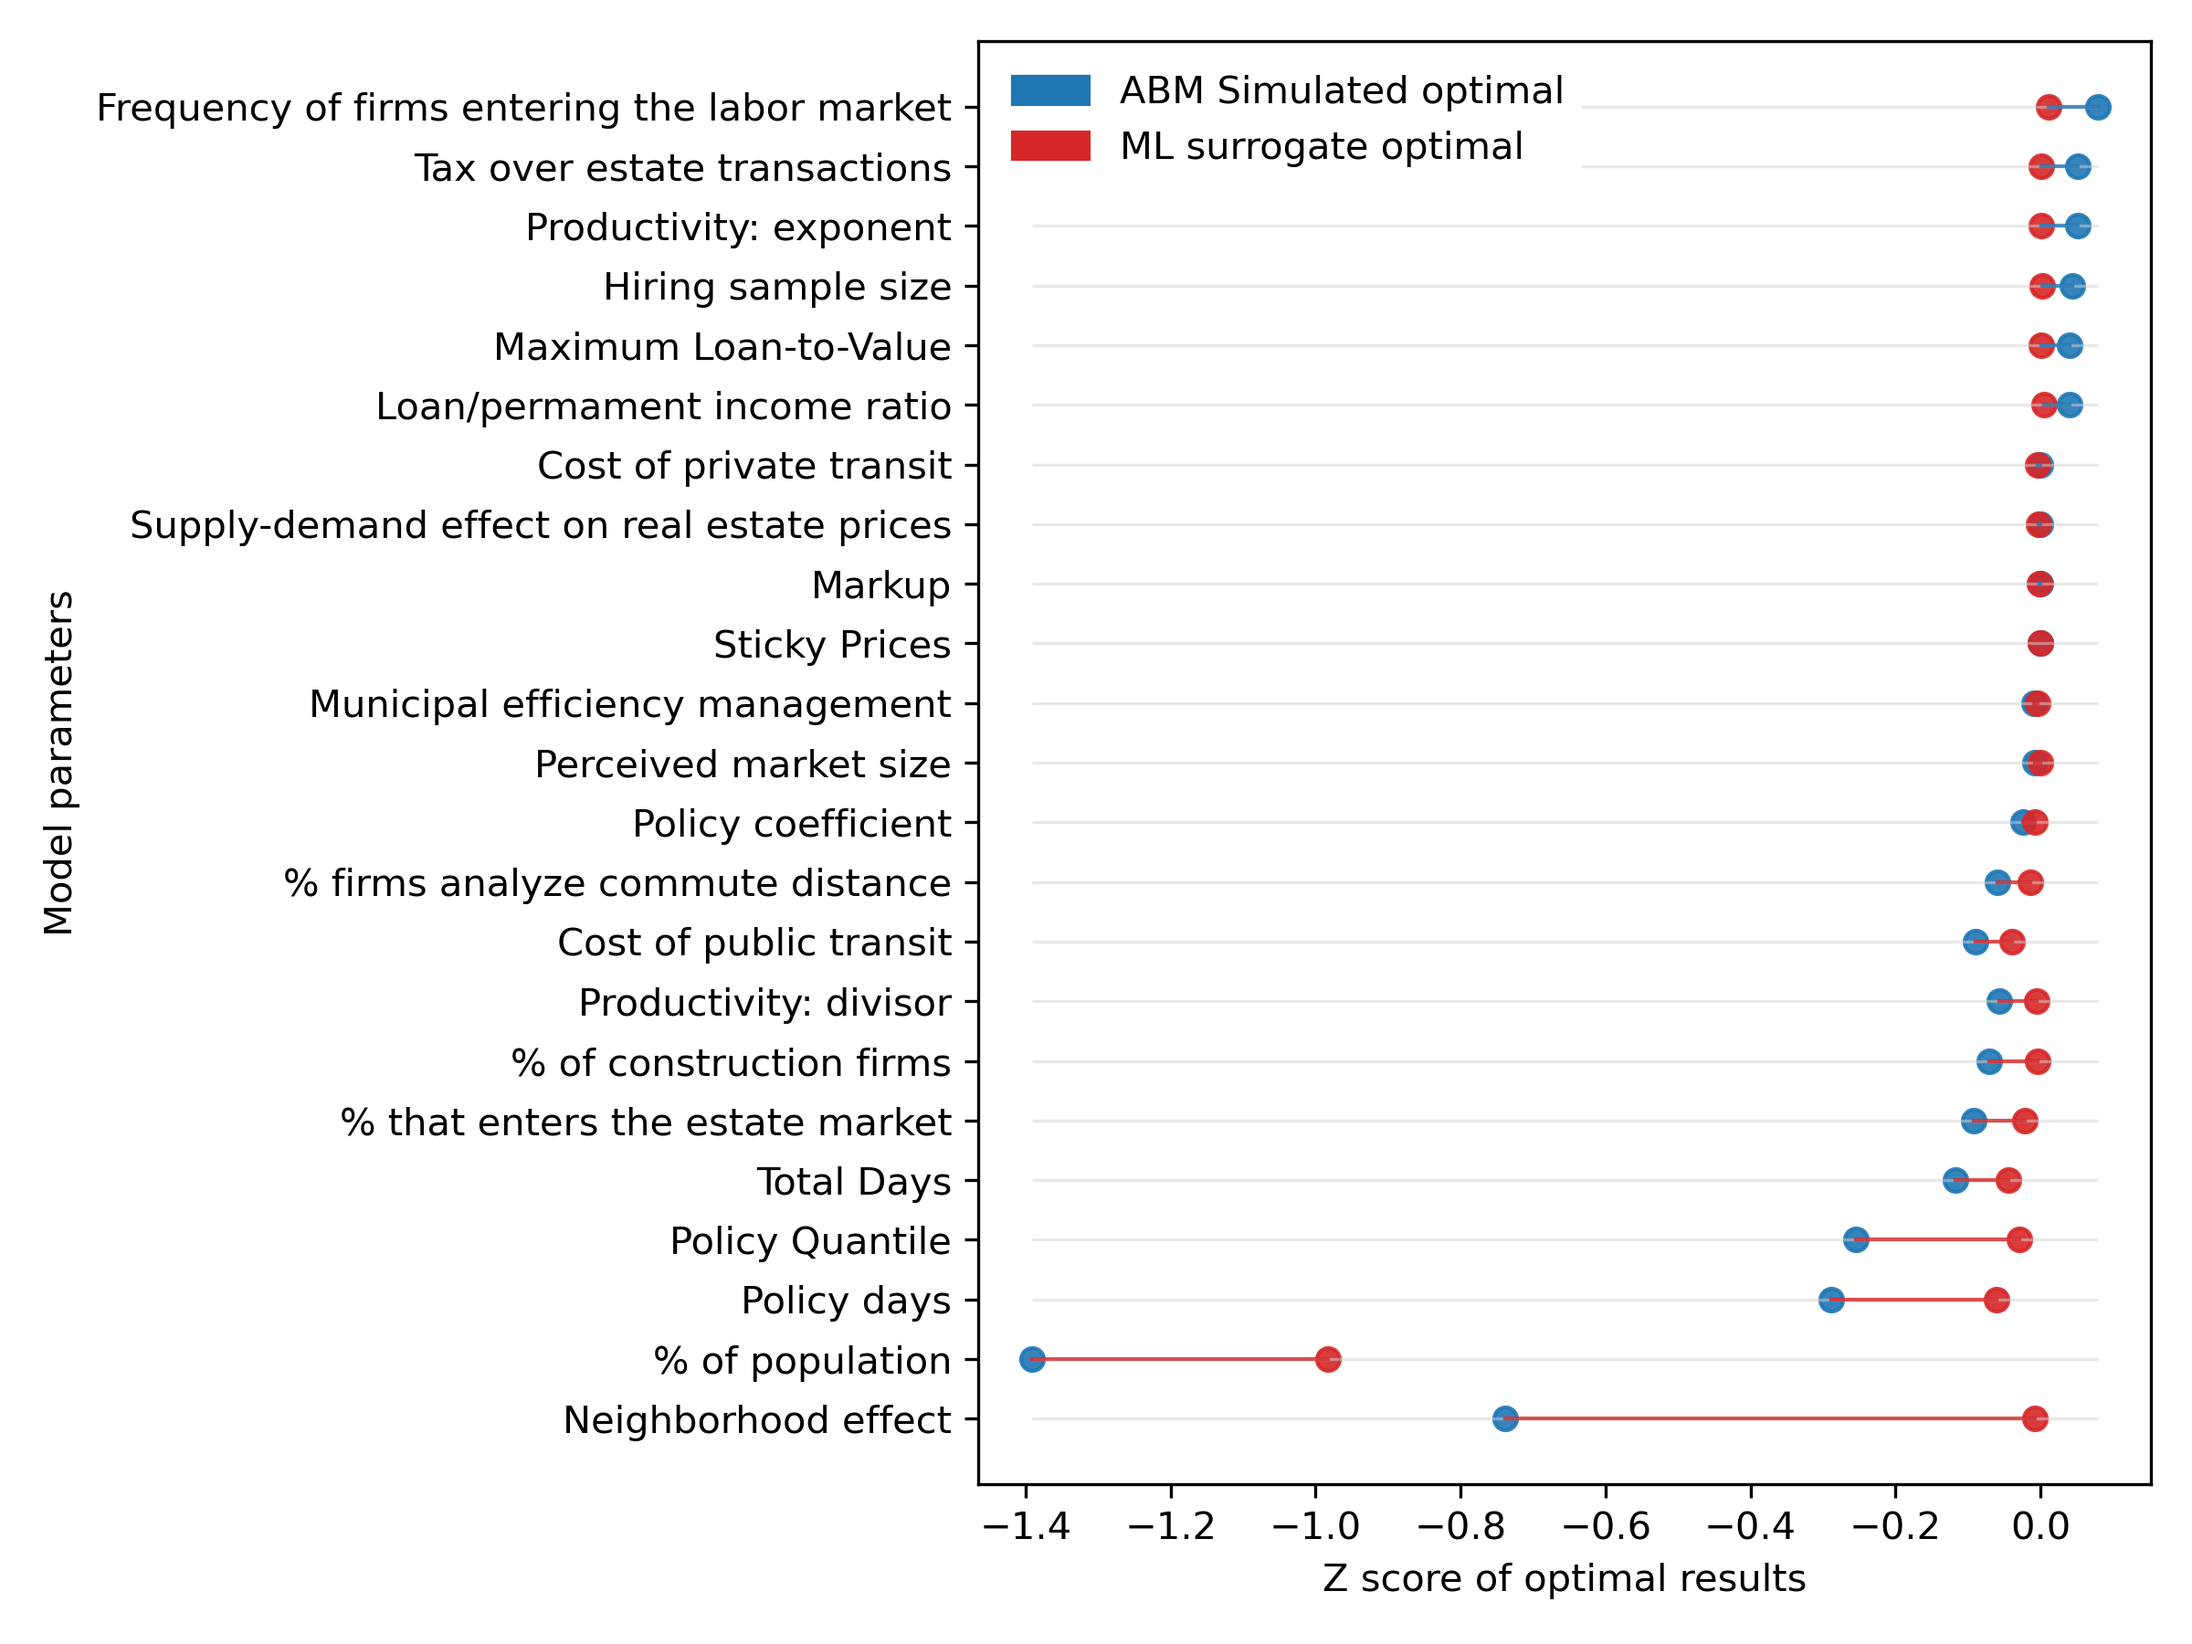
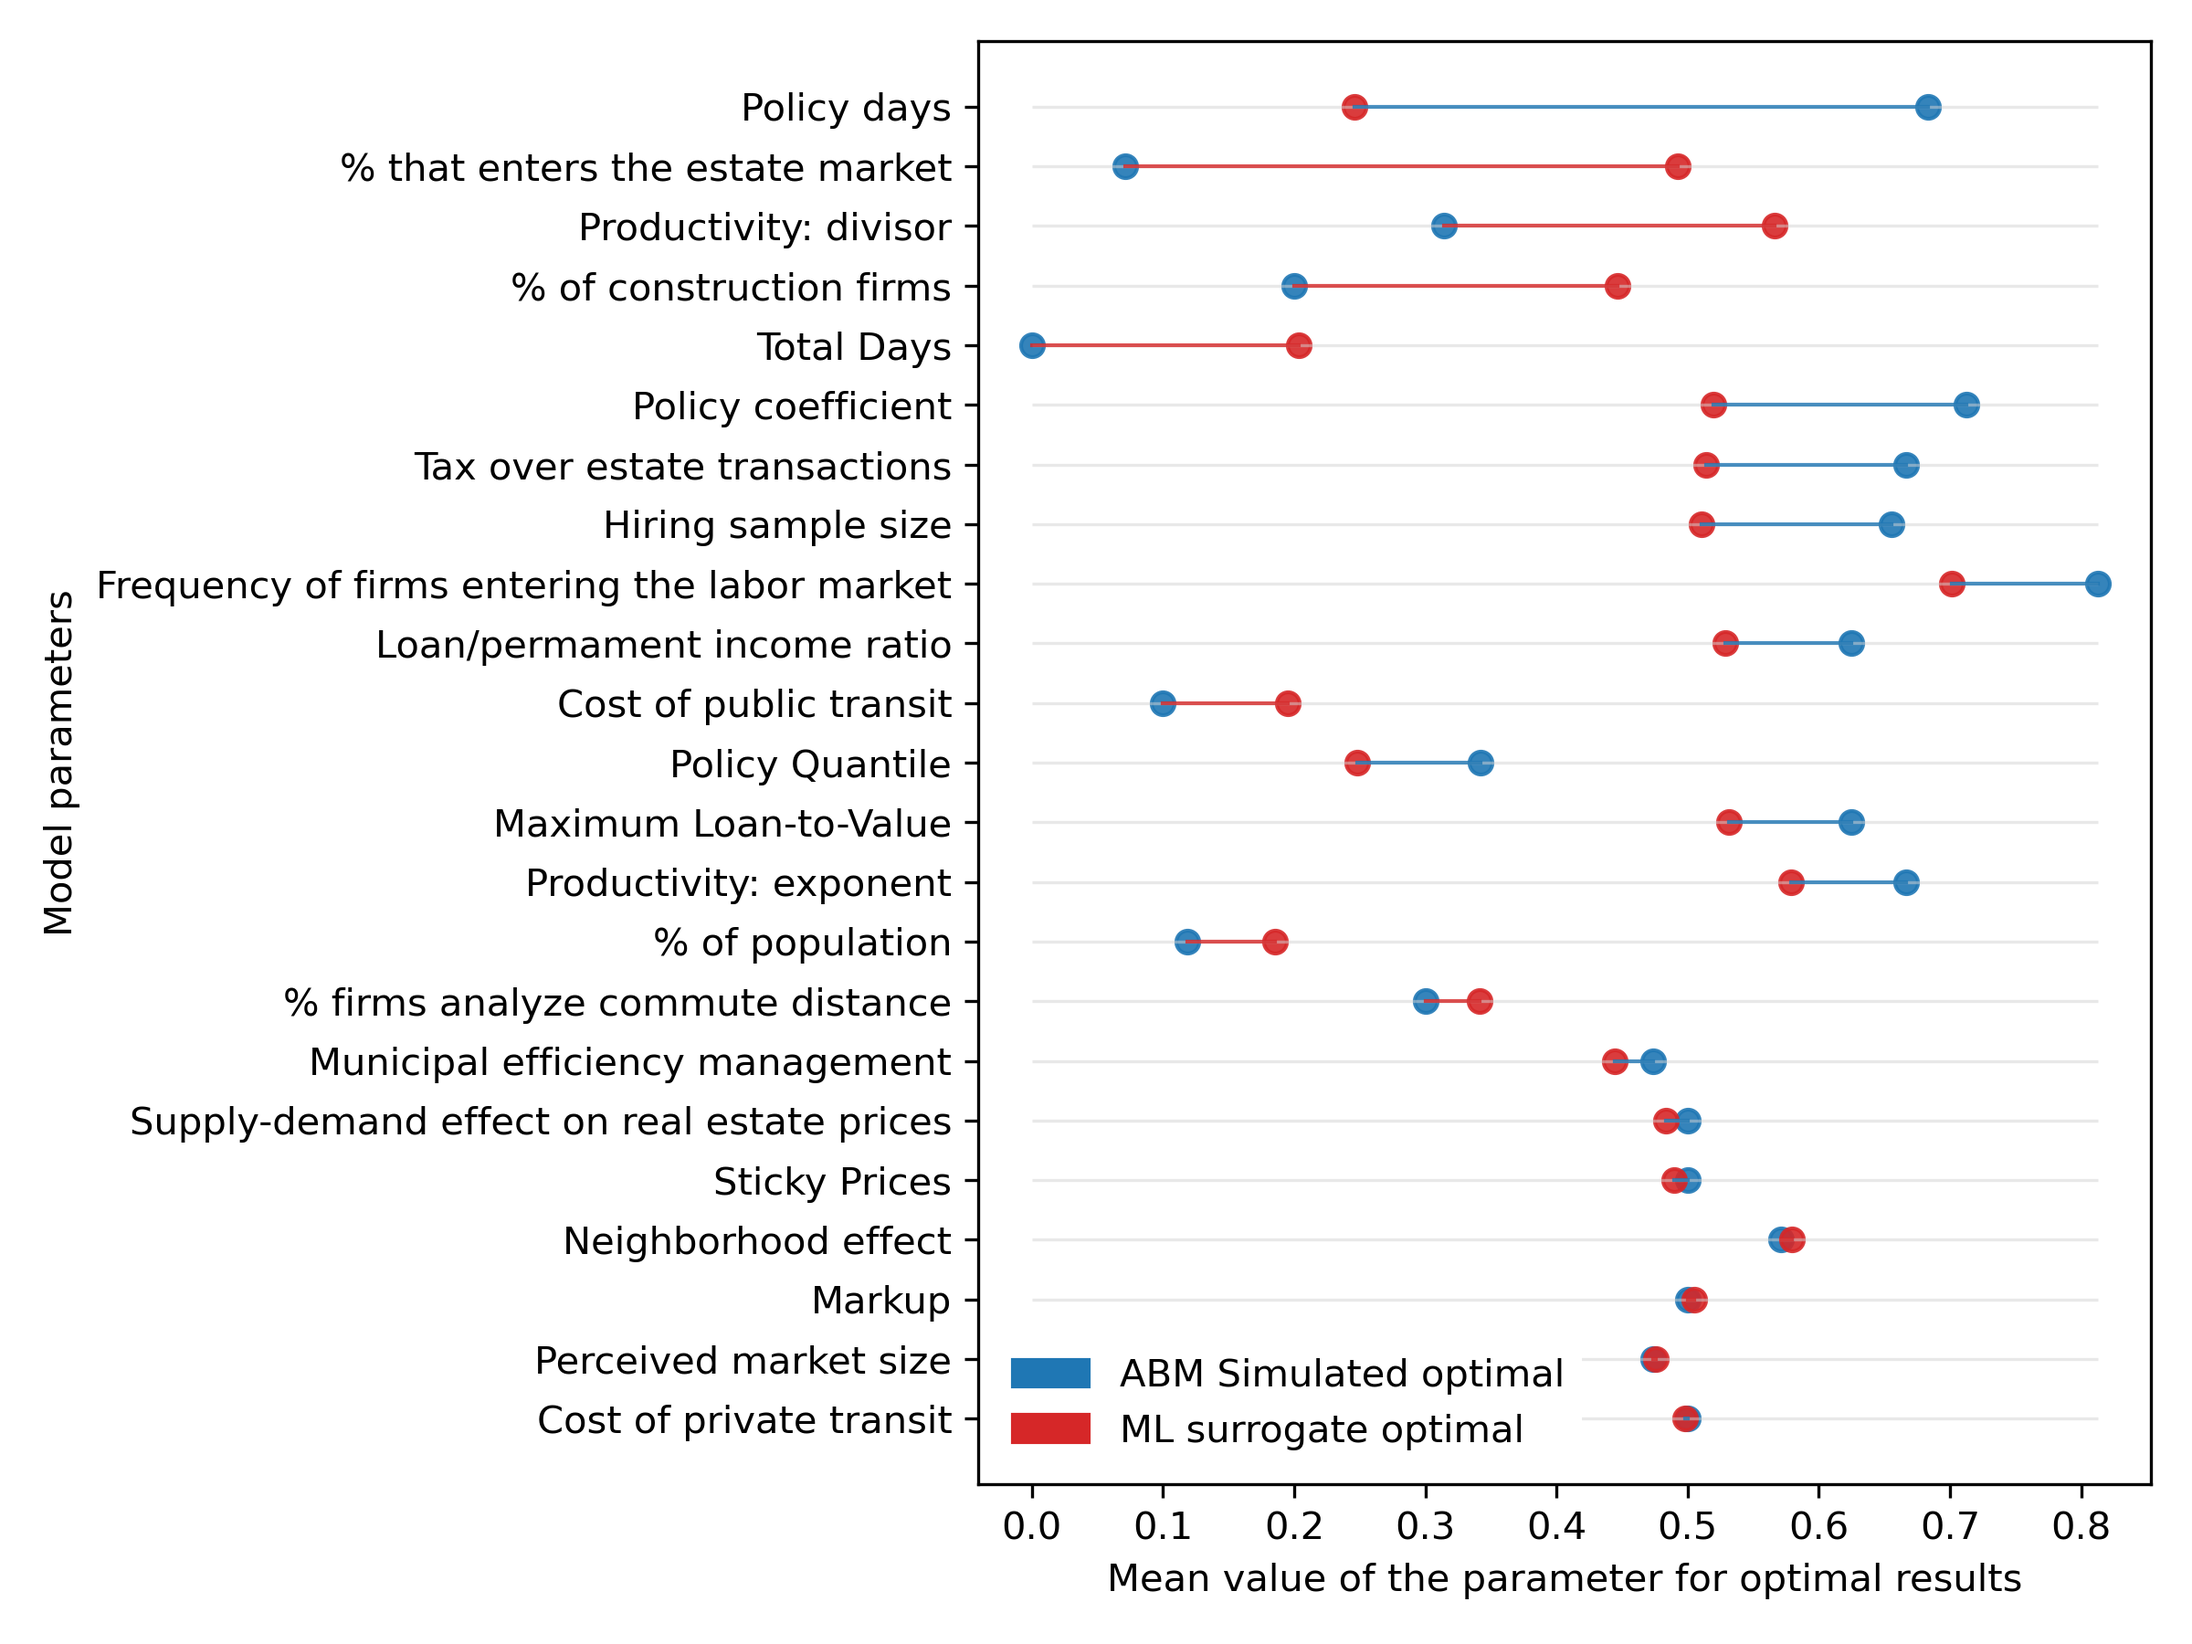
Worked on figure labels

diff --git a/analysis/plot_z_score_parameters.py b/analysis/plot_z_score_parameters.py
@@ -26,7 +26,7 @@ def plotting(data, col1='z_simulated_optimal', col2='z_ml_optimal', name='name')
     ax.legend([pts, pts], ['ABM Simulated optimal', 'ML surrogate optimal'], edgecolor='white', facecolor='white',
               framealpha=1, loc='best')
     plt.ylabel("Model parameters")
-    plt.xlabel(f"Z score of optimal results")
+    plt.xlabel(f"Mean value of the parameter for optimal results")
     leg = ax.get_legend()
     for i in range(len(colors)):
         # leg.legendHandles[i].set_marker('o')
@@ -38,9 +38,9 @@ def plotting(data, col1='z_simulated_optimal', col2='z_ml_optimal', name='name')
 
 if __name__ == '__main__':
     # d = pd.read_csv('../pre_processed_data/parameters_comparison.csv', sep=';')
-    d = pd.read_csv('../pre_processed_data/parameters_comparison.csv', sep=';')
+    d = pd.read_csv('../pre_processed_data/parameters_norm_optimal.csv', sep=';')
     d.rename(columns={'Unnamed: 0': 'parameters'}, inplace=True)
     d = d.set_index('parameters')
-    d = d.sort_values(by='difference')
+    d = d.sort_values(by='abs_difference')
     plotting(d)
 

diff --git a/analysis/counting.py b/analysis/counting.py
@@ -90,6 +90,7 @@ def normalize_and_optimal(simulated, ml):
         table.loc[param, 'z_simulated_optimal'] = sim_optimal_mean
         table.loc[param, 'z_ml_optimal'] = ml_optimal_mean
         table.loc[param, 'difference'] = sim_optimal_mean - ml_optimal_mean
+        table.loc[param, 'abs_difference'] = abs(sim_optimal_mean - ml_optimal_mean)
     table.to_csv(f'../pre_processed_data/parameters_norm_optimal.csv', sep=';')
     table.reset_index(inplace=True)
     table['Parameters'] = table['index'].map(groups_cols.abm_params_show)
